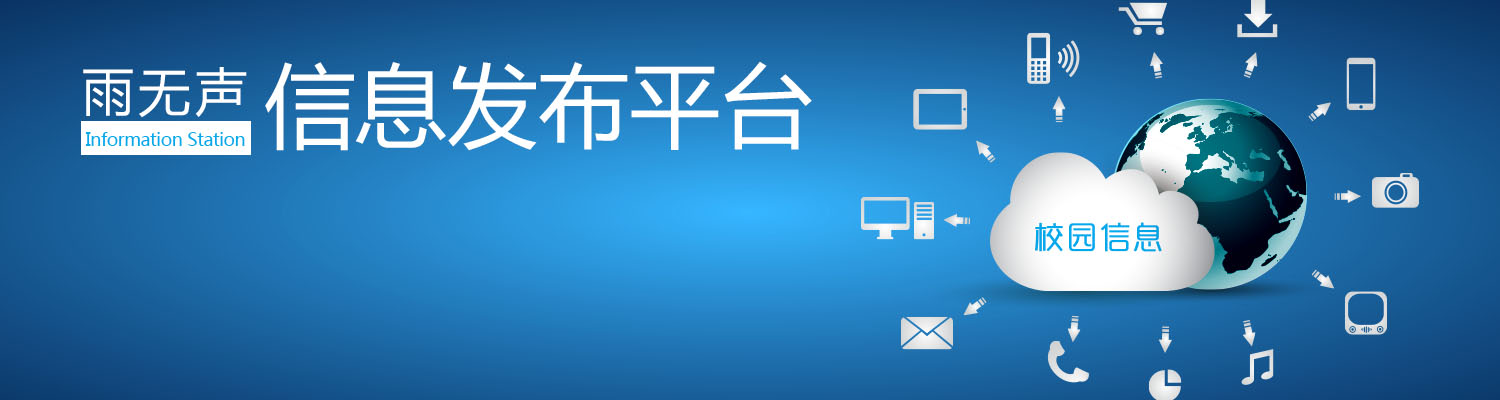
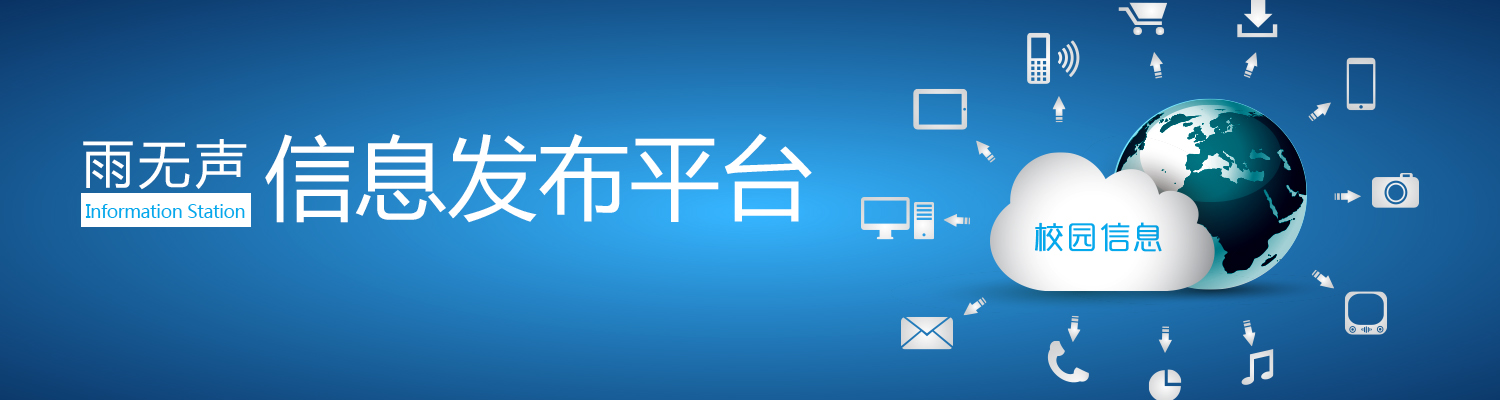
修改了实验室首页。
增大了顶部切换图片的分辨率，并且增加了一句话的介绍,'简介'以及'传送门'的按钮。

Changed region(s): [[0.0307, 0.15, 0.552, 0.57]]

diff --git a/lab-webapp/src/main/webapp/WEB-INF/views/index.html b/lab-webapp/src/main/webapp/WEB-INF/views/index.html
@@ -37,6 +37,11 @@ body {
 .feature-heading {
 	padding: 40px 0 0 0;
 }
+.item .container{
+	text-shadow: 0 1px 1px rgba(0,0,0,.4);
+	position: relative;
+	top: 210px;
+}
 </style>
 </@head>
 <body>
@@ -77,13 +82,26 @@ body {
 <div id="show" class="carousel slide">
 	<div class="carousel-inner">
 		<div class="item active">
-			<img src="/resources/images/lab/index/lab.jpg" alt="">
+			<img src="/resources/images/lab/index/lab.jpg" alt="" />
+			<div class="container">
+				<h1>创意与创造的地方</h1>
+			</div>
 		</div>
 		<div class="item">
-			<img src="/resources/images/lab/index/share.jpg" alt="">
+			<img src="/resources/images/lab/index/share.jpg" alt="" />
+			<div class="container">
+				<h1>一起打造我们的西大文库</h1>
+				<a class="btn btn-large btn-primary" href="#app_share">简介</a>
+				<a class="btn btn-large btn-success" href="//share.newgxu.cn">传送门</a>
+			</div>
 		</div>
 		<div class="item">
-			<img src="/resources/images/lab/index/info.jpg" alt="">
+			<img src="/resources/images/lab/index/info.jpg" alt="" />
+			<div class="container">
+				<h1>轻松，即时获取校园一手信息</h1>
+				<a class="btn btn-large btn-primary" href="#app_info">简介</a>
+				<a class="btn btn-large btn-success" href="/info/">传送门</a>
+			</div>
 		</div>
 	</div>
 	<a class="left carousel-control" href="#show" data-slide="prev">&lsaquo;</a>

diff --git a/lab-webapp/src/main/java/cn/newgxu/lab/core/config/SpringBeans.java b/lab-webapp/src/main/java/cn/newgxu/lab/core/config/SpringBeans.java
@@ -191,7 +191,7 @@ public class SpringBeans extends WebMvcConfigurerAdapter {
 		FreeMarkerConfigurer configurer = new FreeMarkerConfigurer();
 		configurer.setTemplateLoaderPath("/WEB-INF/views/");
 		Properties settings = new Properties();
-		settings.setProperty("template_update_delay", "3600");
+		settings.setProperty("template_update_delay", "0");
 		settings.setProperty("default_encoding", "UTF-8");
 		settings.setProperty("number_format", "0.##");
 		settings.setProperty("datetime_format", "yyyy-MM-dd HH:mm:ss");
